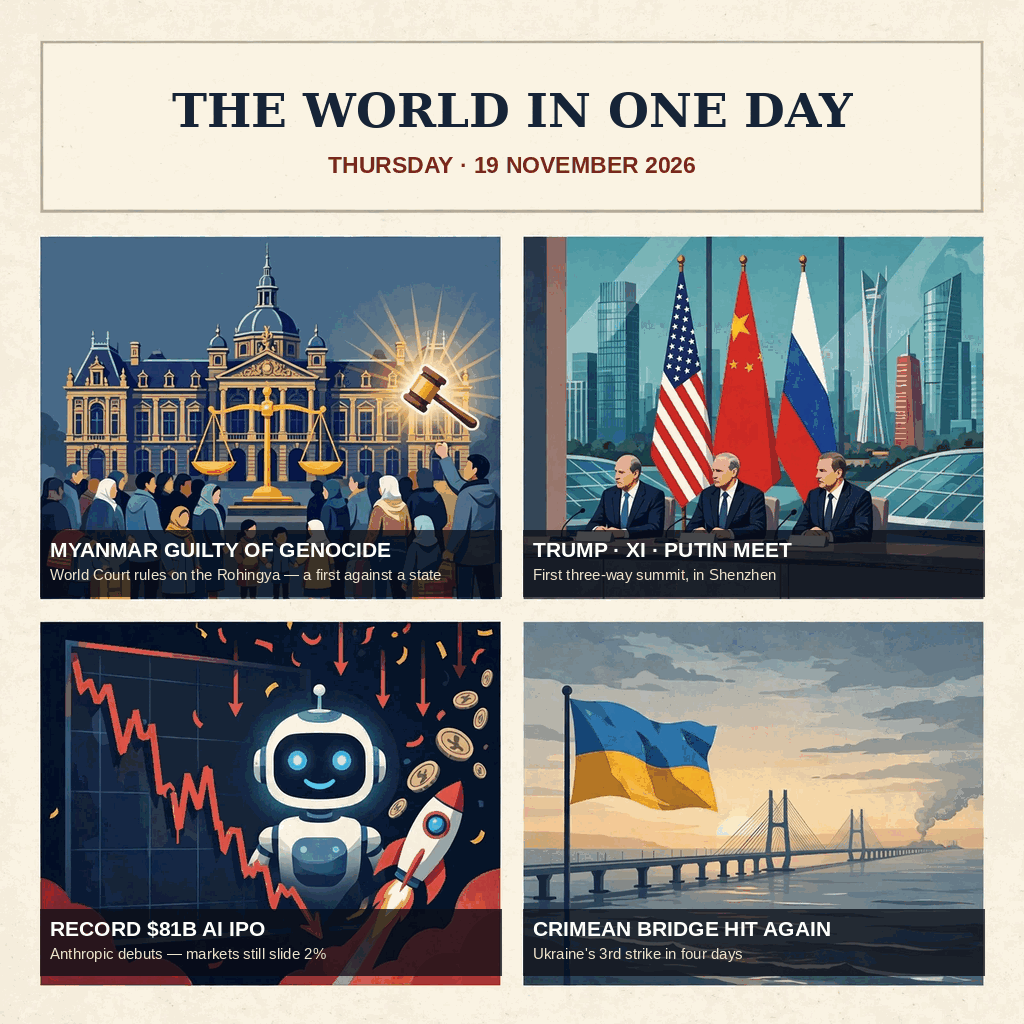
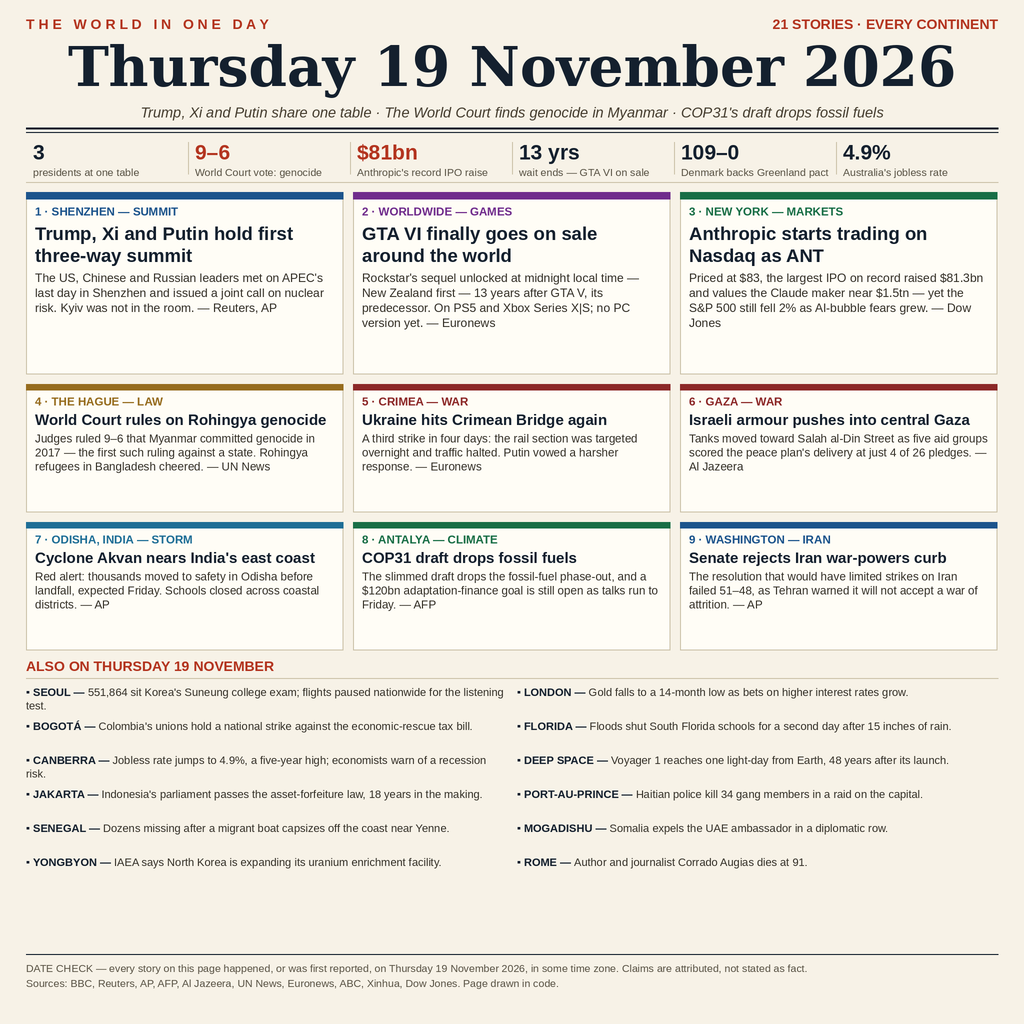
v2: dense front page — 21 stories of 19 Nov 2026 drawn in code (frontpage.py)

diff --git a/frontpage.py b/frontpage.py
@@ -1,0 +1,193 @@
+#!/usr/bin/env python3
+"""v2: a dense newspaper front page for 19 Nov 2026, drawn in code (PIL).
+Drawn at 2x and downscaled to 1024x1024 for smooth type.
+Every story was reported on Thursday 19 November 2026 (sources in footer)."""
+from PIL import Image, ImageDraw, ImageFont
+import os
+
+S = 2  # supersample
+W = 1024 * S
+img = Image.new("RGB", (W, W), (247, 242, 231))
+d = ImageDraw.Draw(img)
+
+SERIF_B = "/usr/share/fonts/truetype/dejavu/DejaVuSerif-Bold.ttf"
+SANS_B = "/usr/share/fonts/truetype/liberation/LiberationSans-Bold.ttf"
+SANS = "/usr/share/fonts/truetype/liberation/LiberationSans-Regular.ttf"
+SANS_I = "/usr/share/fonts/truetype/liberation/LiberationSans-Italic.ttf"
+
+INK = (20, 32, 46)
+RED = (179, 52, 31)
+GREY = (90, 84, 70)
+CARD = (255, 253, 246)
+LINE = (205, 196, 172)
+
+def F(path, px):
+    return ImageFont.truetype(path, px * S)
+
+def wrap(text, font, maxw):
+    words, lines, cur = text.split(), [], ""
+    for w in words:
+        t = (cur + " " + w).strip()
+        if d.textlength(t, font=font) <= maxw:
+            cur = t
+        else:
+            if cur: lines.append(cur)
+            cur = w
+    if cur: lines.append(cur)
+    return lines
+
+def text_block(x, y, w, text, font, fill, leading):
+    for ln in wrap(text, font, w):
+        d.text((x, y), ln, font=font, fill=fill)
+        y += leading
+    return y
+
+M = 26 * S            # page margin
+CW = W - 2 * M        # content width
+
+# ---------- masthead ----------
+f_kick = F(SANS_B, 14)
+kick = "T H E   W O R L D   I N   O N E   D A Y"
+kw = d.textlength(kick, font=f_kick)
+d.text((M, 16 * S), kick, font=f_kick, fill=RED)
+right = "21 STORIES · EVERY CONTINENT"
+rw = d.textlength(right, font=f_kick)
+d.text((W - M - rw, 16 * S), right, font=f_kick, fill=RED)
+f_title = F(SERIF_B, 55)
+title = "Thursday 19 November 2026"
+tw = d.textlength(title, font=f_title)
+d.text(((W - tw) / 2, 34 * S), title, font=f_title, fill=INK)
+sub = "Trump, Xi and Putin share one table · The World Court finds genocide in Myanmar · COP31's draft drops fossil fuels"
+f_sub = F(SANS_I, 14.5)
+sw = d.textlength(sub, font=f_sub)
+d.text(((W - sw) / 2, 104 * S), sub, font=f_sub, fill=(70, 62, 48))
+d.line([M, 128 * S, W - M, 128 * S], fill=INK, width=2 * S)
+d.line([M, 132 * S, W - M, 132 * S], fill=INK, width=1 * S)
+
+# ---------- stats strip ----------
+stats = [
+    ("3", "presidents at one table"),
+    ("9–6", "World Court vote: genocide"),
+    ("$81bn", "Anthropic's record IPO raise"),
+    ("13 yrs", "wait ends — GTA VI on sale"),
+    ("109–0", "Denmark backs Greenland pact"),
+    ("4.9%", "Australia's jobless rate"),
+]
+f_num = F(SANS_B, 21)
+f_cap = F(SANS, 10.5)
+cell = CW // 6
+y0 = 140 * S
+for i, (num, cap) in enumerate(stats):
+    x = M + i * cell
+    if i: d.line([x, y0 + 2 * S, x, y0 + 34 * S], fill=LINE, width=S)
+    d.text((x + 7 * S, y0), num, font=f_num, fill=RED if i in (1, 2) else INK)
+    text_block(x + 7 * S, y0 + 26 * S, cell - 12 * S, cap, f_cap, GREY, 12 * S)
+d.line([M, 182 * S, W - M, 182 * S], fill=LINE, width=S)
+
+# ---------- hero tiles ----------
+heroes = [
+    ((28, 84, 140), "1 · SHENZHEN — SUMMIT",
+     "Trump, Xi and Putin hold first three-way summit",
+     "The US, Chinese and Russian leaders met on APEC's last day in Shenzhen and issued a joint call on nuclear risk. Kyiv was not in the room. — Reuters, AP"),
+    ((112, 44, 140), "2 · WORLDWIDE — GAMES",
+     "GTA VI finally goes on sale around the world",
+     "Rockstar's sequel unlocked at midnight local time — New Zealand first — 13 years after GTA V, its predecessor. On PS5 and Xbox Series X|S; no PC version yet. — Euronews"),
+    ((24, 110, 70), "3 · NEW YORK — MARKETS",
+     "Anthropic starts trading on Nasdaq as ANT",
+     "Priced at $83, the largest IPO on record raised $81.3bn and values the Claude maker near $1.5tn — yet the S&P 500 still fell 2% as AI-bubble fears grew. — Dow Jones"),
+]
+f_cat = F(SANS_B, 11.5)
+f_hh = F(SANS_B, 18.5)
+f_deck = F(SANS, 12)
+gap = 10 * S
+tw3 = (CW - 2 * gap) // 3
+hy = 192 * S
+hh = 182 * S
+for i, (color, cat, head, deck) in enumerate(heroes):
+    x = M + i * (tw3 + gap)
+    d.rectangle([x, hy, x + tw3, hy + hh], fill=CARD, outline=LINE, width=S)
+    d.rectangle([x, hy, x + tw3, hy + 7 * S], fill=color)
+    text_block(x + 9 * S, hy + 13 * S, tw3 - 18 * S, cat, f_cat, color, 14 * S)
+    y = text_block(x + 9 * S, hy + 31 * S, tw3 - 18 * S, head, f_hh, INK, 22 * S)
+    text_block(x + 9 * S, y + 4 * S, tw3 - 18 * S, deck, f_deck, (52, 48, 40), 15 * S)
+
+# ---------- numbered tiles ----------
+tiles = [
+    ((150, 108, 30), "4 · THE HAGUE — LAW",
+     "World Court rules on Rohingya genocide",
+     "Judges ruled 9–6 that Myanmar committed genocide in 2017 — the first such ruling against a state. Rohingya refugees in Bangladesh cheered. — UN News"),
+    ((140, 40, 40), "5 · CRIMEA — WAR",
+     "Ukraine hits Crimean Bridge again",
+     "A third strike in four days: the rail section was targeted overnight and traffic halted. Putin vowed a harsher response. — Euronews"),
+    ((140, 40, 40), "6 · GAZA — WAR",
+     "Israeli armour pushes into central Gaza",
+     "Tanks moved toward Salah al-Din Street as five aid groups scored the peace plan's delivery at just 4 of 26 pledges. — Al Jazeera"),
+    ((30, 110, 150), "7 · ODISHA, INDIA — STORM",
+     "Cyclone Akvan nears India's east coast",
+     "Red alert: thousands moved to safety in Odisha before landfall, expected Friday. Schools closed across coastal districts. — AP"),
+    ((24, 110, 70), "8 · ANTALYA — CLIMATE",
+     "COP31 draft drops fossil fuels",
+     "The slimmed draft drops the fossil-fuel phase-out, and a $120bn adaptation-finance goal is still open as talks run to Friday. — AFP"),
+    ((28, 84, 140), "9 · WASHINGTON — IRAN",
+     "Senate rejects Iran war-powers curb",
+     "The resolution that would have limited strikes on Iran failed 51–48, as Tehran warned it will not accept a war of attrition. — AP"),
+]
+f_th = F(SANS_B, 15)
+f_td = F(SANS, 11.5)
+ty = hy + hh + 10 * S
+th = 128 * S
+for r in range(2):
+    for c in range(3):
+        color, cat, head, deck = tiles[r * 3 + c]
+        x = M + c * (tw3 + gap)
+        y = ty + r * (th + gap)
+        d.rectangle([x, y, x + tw3, y + th], fill=CARD, outline=LINE, width=S)
+        d.rectangle([x, y, x + tw3, y + 6 * S], fill=color)
+        text_block(x + 9 * S, y + 11 * S, tw3 - 18 * S, cat, f_cat, color, 13 * S)
+        yy = text_block(x + 9 * S, y + 27 * S, tw3 - 18 * S, head, f_th, INK, 18 * S)
+        text_block(x + 9 * S, yy + 3 * S, tw3 - 18 * S, deck, f_td, (52, 48, 40), 14 * S)
+
+# ---------- also on thursday ----------
+ay = ty + 2 * th + gap + 8 * S
+f_ah = F(SANS_B, 14)
+d.text((M, ay), "ALSO ON THURSDAY 19 NOVEMBER", font=f_ah, fill=RED)
+d.line([M, ay + 20 * S, W - M, ay + 20 * S], fill=LINE, width=S)
+also = [
+    ("SEOUL —", "551,864 sit Korea's Suneung college exam; flights paused nationwide for the listening test."),
+    ("BOGOTÁ —", "Colombia's unions hold a national strike against the economic-rescue tax bill."),
+    ("CANBERRA —", "Jobless rate jumps to 4.9%, a five-year high; economists warn of a recession risk."),
+    ("JAKARTA —", "Indonesia's parliament passes the asset-forfeiture law, 18 years in the making."),
+    ("SENEGAL —", "Dozens missing after a migrant boat capsizes off the coast near Yenne."),
+    ("YONGBYON —", "IAEA says North Korea is expanding its uranium enrichment facility."),
+    ("LONDON —", "Gold falls to a 14-month low as bets on higher interest rates grow."),
+    ("FLORIDA —", "Floods shut South Florida schools for a second day after 15 inches of rain."),
+    ("DEEP SPACE —", "Voyager 1 reaches one light-day from Earth, 48 years after its launch."),
+    ("PORT-AU-PRINCE —", "Haitian police kill 34 gang members in a raid on the capital."),
+    ("MOGADISHU —", "Somalia expels the UAE ambassador in a diplomatic row."),
+    ("ROME —", "Author and journalist Corrado Augias dies at 91."),
+]
+f_lead = F(SANS_B, 11)
+f_item = F(SANS, 11)
+colw = (CW - gap) // 2
+iy = ay + 28 * S
+for i, (lead, body) in enumerate(also):
+    x = M + (i // 6) * (colw + gap)
+    y = iy + (i % 6) * 34 * S
+    d.text((x, y), "▪ " + lead, font=f_lead, fill=INK)
+    lw = d.textlength("▪ " + lead + " ", font=f_lead)
+    lines = wrap(body, f_item, colw - lw)
+    d.text((x + lw, y), lines[0], font=f_item, fill=(52, 48, 40))
+    for j, ln in enumerate(lines[1:], 1):
+        d.text((x, y + j * 13.5 * S), ln, font=f_item, fill=(52, 48, 40))
+
+# ---------- footer ----------
+fy = 962 * S
+d.line([M, fy - 8 * S, W - M, fy - 8 * S], fill=INK, width=S)
+f_foot = F(SANS, 10.5)
+text_block(M, fy, CW, "DATE CHECK — every story on this page happened, or was first reported, on Thursday 19 November 2026, in some time zone. Claims are attributed, not stated as fact.", f_foot, GREY, 13 * S)
+text_block(M, fy + 15 * S, CW, "Sources: BBC, Reuters, AP, AFP, Al Jazeera, UN News, Euronews, ABC, Xinhua, Dow Jones. Page drawn in code.", f_foot, GREY, 13 * S)
+
+img = img.resize((1024, 1024), Image.LANCZOS)
+out = os.path.join(os.path.dirname(os.path.abspath(__file__)), "entry2.png")
+img.save(out, "PNG", optimize=True)
+print(out, os.path.getsize(out), "bytes")
